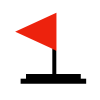
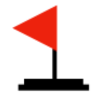
Adding buttons to the settings menu
-you can now customize the size of the playing field in the settings menu
-placeholders for other buttons added
-slider class implemented
-some clean-up of the code

Changed region(s): [[0.12, 0.03, 0.9, 0.93]]

diff --git a/src/board.py b/src/board.py
@@ -4,14 +4,14 @@ from constants import *
 
 class Board:
     def __init__(self):
-        # Grid settings
-        self.grid_size = 7
-        self.cell_size = WIDTH // self.grid_size
+        # Used in options menu to determine how big the field is.
+        self.grid_size = 10
 
-        # Two fields, one stores mines and the mine count,
-        # other one stores which cells are opened/not opened.
-        self._covered_cells = [[False for _ in range(self.grid_size)] for _ in range(self.grid_size)]
-        self._field = [[0 for _ in range(self.grid_size)] for _ in range(self.grid_size)]
+        # This will be set up in the function below this one,
+        # we separate it like this cause of the settings interaction.
+        self._cell_size = None
+        self._covered_cells = None
+        self._field = None
 
         # Variables
         self.game_over = False
@@ -20,13 +20,19 @@ class Board:
         self.mine_count = 20
         self._flagged_positions = {}
 
+    def set_up_board(self):
+        self._cell_size = WIDTH // self.grid_size
+
+        self._covered_cells = [[False for _ in range(self.grid_size)] for _ in range(self.grid_size)]
+        self._field = [[0 for _ in range(self.grid_size)] for _ in range(self.grid_size)]
+
         # Scale image depending on the cell size.
-        self.scale_images(self.cell_size)
+        self.scale_images(self._cell_size)
 
     @staticmethod
     def scale_images(cell_size):
         image_size = (cell_size, cell_size)
-        for i in DRAWING:
+        for i in range(11):
             DRAWING[i] = pygame.transform.scale(DRAWING[i], image_size)
 
     @staticmethod
@@ -37,24 +43,28 @@ class Board:
     def draw_grid(self, window):
         for i in range(self.grid_size):
             for j in range(self.grid_size):
-                cell = pygame.Rect(j * self.cell_size, i * self.cell_size, self.cell_size, self.cell_size)
-                position = (j * self.cell_size, i * self.cell_size)
+                cell = pygame.Rect(j * self._cell_size, i * self._cell_size, self._cell_size, self._cell_size)
+                position = (j * self._cell_size, i * self._cell_size)
 
+                # Draw a gray cell if the tile isn't open.
                 if not self._covered_cells[i][j]:
                     self.draw_rect(window, GRAY, BORDER, cell)
 
                     if self._field[i][j] == 10:
                         window.blit(FLAG, position)
+                # Otherwise, draw whatever that tile represents in the field.
                 else:
                     window.blit(DRAWING[self._field[i][j]], position)
 
     def play_first_move(self, mouse):
-        x, y = mouse[1] // self.cell_size, mouse[0] // self.cell_size
+        x, y = mouse[1] // self._cell_size, mouse[0] // self._cell_size
 
         if self._field[x][y] != 10:
             self._covered_cells[x][y] = True
             self.opened_cells += 1
 
+            # Randomize only after the move has been made,
+            # we don't want a mine on the first move.
             self.randomize_mines((x, y))
 
             for i in range(x - 1, x + 2):
@@ -64,7 +74,7 @@ class Board:
     def place_flag(self, mouse):
         # Places and removes flags from the grid,
         # uses a dictionary to store previous grid value.
-        x, y = mouse[1] // self.cell_size, mouse[0] // self.cell_size
+        x, y = mouse[1] // self._cell_size, mouse[0] // self._cell_size
 
         if not self._covered_cells[x][y]:
             if (x, y) not in self._flagged_positions:
@@ -83,7 +93,7 @@ class Board:
                 del self._flagged_positions[(x, y)]
 
     def open_cell(self, mouse):
-        x, y = mouse[1] // self.cell_size, mouse[0] // self.cell_size
+        x, y = mouse[1] // self._cell_size, mouse[0] // self._cell_size
 
         if self._field[x][y] == 9:
             self.open_all_mines()
@@ -133,14 +143,13 @@ class Board:
         for i in range(self.mine_count, -1, -1):
             x = random.randint(0, self.grid_size - 1)
             y = random.randint(0, self.grid_size - 1)
-            print(x, y)
             if self._field[x][y] == 9 or (x, y) == clicked_position:
                 i += 1
             else:
                 self._field[x][y] = 9
 
-        # For each cell, count the number of mines around
-        # it and put the matching number in that field position.
+        # Count the number of mines around each cell
+        # and put the matching number in that field position.
         for i in range(0, self.grid_size - 1):
             for j in range(0, self.grid_size - 1):
                 if self._field[i][j] != 9:

diff --git a/src/game.py b/src/game.py
@@ -1,18 +1,27 @@
 from board import *
-from button_traits import Play, Settings, Exit
+from button_traits import *
+from slider import *
 
 
 class Game:
     def __init__(self):
-        # Window settings
+        # Window Settings
         self.window = pygame.display.set_mode((WIDTH, HEIGHT))
         pygame.display.set_icon(WINDOW_ICON)
         pygame.display.set_caption("Minesweeper")
 
-        # Buttons
+        # Main Menu Buttons
         self.play_button = Play()
         self.settings_button = Settings()
         self.exit_button = Exit()
+
+        # Settings Menu Buttons
+        self._grid_settings = Grid()
+        self.test_1 = Test1()
+        self.test_2 = Test2()
+        self.test_3 = Test3()
+
+        self.slider = Slider((50, 165), 50, 35)
 
         self.board = Board()
         self.mouse_pos = (0, 0)
@@ -31,6 +40,8 @@ class Game:
                 if event.type == pygame.MOUSEBUTTONDOWN:
                     if event.button == 1:
                         if self.play_button.is_mouse_over(self.mouse_pos):
+                            self.board.grid_size = self.slider.get_value()
+                            self.board.set_up_board()
                             self.run()
                         elif self.settings_button.is_mouse_over(self.mouse_pos):
                             self.settings_menu()
@@ -45,8 +56,9 @@ class Game:
             pygame.display.update()
 
     def settings_menu(self):
-        # Function that sets up the main menu and runs its game-loop.
+        # Function that sets up the settings menu and runs its game-loop.
         self.window.fill(GRAY)
+        pressed_on_slider = False
         while True:
             self.mouse_pos = pygame.mouse.get_pos()
 
@@ -54,9 +66,28 @@ class Game:
                 if event.type == pygame.QUIT:
                     pygame.quit()
                     quit()
+                elif event.type == pygame.MOUSEBUTTONDOWN:
+                    if event.button == 1:
+                        if self._grid_settings.is_mouse_over(self.mouse_pos):
+                            pressed_on_slider = True
+
+                elif event.type == pygame.MOUSEBUTTONUP:
+                    if event.button == 1:
+                        pressed_on_slider = False
+
                 elif event.type == pygame.KEYDOWN:
                     if event.key == pygame.K_ESCAPE:
                         self.main_menu()
+
+            self._grid_settings.draw_button(self.window, self.mouse_pos)
+            self.test_1.draw_button(self.window, self.mouse_pos)
+            self.test_2.draw_button(self.window, self.mouse_pos)
+            self.test_3.draw_button(self.window, self.mouse_pos)
+
+            self.slider.draw_slider(self.window)
+
+            if pressed_on_slider:
+                self.slider.change_value(self.mouse_pos)
 
             pygame.display.update()
 
@@ -70,7 +101,6 @@ class Game:
                 if event.key == pygame.K_ESCAPE:
                     self.board.reset()
                     self.main_menu()
-            elif event.type == pygame.KEYDOWN:
                 # Resetting the board when pressing 'r'.
                 if event.key == pygame.K_r:
                     self.board.reset()
@@ -92,7 +122,7 @@ class Game:
     def update(self):
         self.mouse_pos = pygame.mouse.get_pos()
 
-        if self.board.opened_cells == 100:
+        if self.board.opened_cells == (self.board.grid_size * self.board.grid_size):
             self.board.game_over = True
 
     def render(self):

diff --git a/src/slider.py b/src/slider.py
@@ -1,0 +1,45 @@
+from constants import *
+
+
+class Slider:
+    def __init__(self, position: tuple, upper_value: int,
+                 slider_width: int, outline_size: tuple = (300, 35)) -> None:
+        self._position = position
+        self._upper_value = upper_value
+        self._slider_width = slider_width
+        self._outline_size = outline_size
+        self._font = pygame.font.Font(pygame.font.get_default_font(), self._slider_width - 10)
+
+        self._rect = pygame.Rect(self._position[0], self._position[1], self._outline_size[0], self._outline_size[1])
+
+    def get_value(self) -> int:
+        # Returns the current value of the slider.
+        return self._slider_width // (self._outline_size[0] // self._upper_value)
+
+    def draw_slider(self, window: pygame.display) -> None:
+        # Render the slider's outline.
+        pygame.draw.rect(window, BLACK, (self._position[0], self._position[1],
+                                         self._outline_size[0], self._outline_size[1]), 2)
+
+        # Render the slider's inner rectangle.
+        pygame.draw.rect(window, GRAY, (self._position[0], self._position[1],
+                                        self._slider_width, self._outline_size[1]))
+
+        # Creates a text representation from the value of the slider.
+        integer_value = self._font.render(f"{round(self.get_value())}", True, (255, 255, 255))
+
+        # Centre the text on the slider.
+        text_x = self._position[0] + (self._outline_size[0] / 2) - (integer_value.get_rect().width / 2)
+        text_y = self._position[1] + (self._outline_size[1] / 2) - (integer_value.get_rect().height / 2)
+
+        window.blit(integer_value, (text_x, text_y))
+
+    def change_value(self, mouse) -> None:
+        # Function for changing the value of the slider by dragging it.
+        self._slider_width = mouse[0] - self._position[0]
+
+        # Limit the size of the slider.
+        if self._slider_width < 1:
+            self._slider_width = 0
+        elif self._slider_width > self._outline_size[0]:
+            self._slider_width = self._outline_size[0]

diff --git a/src/button_traits.py b/src/button_traits.py
@@ -37,6 +37,7 @@ class Button(HasTraits):
             button.draw_button(window, mouse)
 
 
+# Main Menu Buttons
 class Play(Button):
     y = int(100)
 
@@ -75,3 +76,53 @@ class Exit(Play):
     @default('highlighted')
     def _default_highlighted(self):
         return HIGHLIGHTED_EXIT
+
+
+# Settings Menu Buttons
+class Grid(Button):
+    x = int(25)
+    y = int(75)
+
+    @default('image')
+    def _default_image(self):
+        return GRID_SETTINGS_BUTTON
+
+    @default('highlighted')
+    def _default_highlighted(self):
+        return HIGHLIGHTED_GRID_SETTINGS
+
+class Test2(Grid):
+    y = int(325)
+
+    @default('image')
+    def _default_image(self):
+        return TEST
+
+    @default('highlighted')
+    def _default_highlighted(self):
+        return TEST
+
+
+class Test1(Button):
+    x = int(425)
+    y = int(75)
+
+    @default('image')
+    def _default_image(self):
+        return TEST
+
+    @default('highlighted')
+    def _default_highlighted(self):
+        return TEST
+
+
+class Test3(Test1):
+    y = int(325)
+
+    @default('image')
+    def _default_image(self):
+        return TEST
+
+    @default('highlighted')
+    def _default_highlighted(self):
+        return TEST

diff --git a/src/constants.py b/src/constants.py
@@ -7,6 +7,7 @@ WIDTH = 800
 WINDOW_ICON = pygame.image.load('images/icon.png')
 
 # COLORS
+BLACK = (0, 0, 0)
 BORDER = (45.9, 45.9, 45.9)
 GRAY = (72.5, 72.5, 72.5)
 RED = (255, 0, 0)
@@ -29,9 +30,13 @@ PLAY_BUTTON = pygame.image.load('images/buttons/play_button.png')
 SETTINGS_BUTTON = pygame.image.load('images/buttons/settings_button.png')
 EXIT_BUTTON = pygame.image.load('images/buttons/exit_button.png')
 
+GRID_SETTINGS_BUTTON = pygame.image.load('images/buttons/grid_settings.png')
+TEST = pygame.image.load('images/buttons/button_template.png')
+
 HIGHLIGHTED_PLAY = pygame.image.load('images/buttons/highlighted_play.png')
 HIGHLIGHTED_SETTINGS = pygame.image.load('images/buttons/highlighted_settings.png')
 HIGHLIGHTED_EXIT = pygame.image.load('images/buttons/highlighted_exit.png')
+HIGHLIGHTED_GRID_SETTINGS = pygame.image.load('images/buttons/highlighted_grid_settings.png')
 
 # DICTIONARY FOR DRAWING
 DRAWING = {
